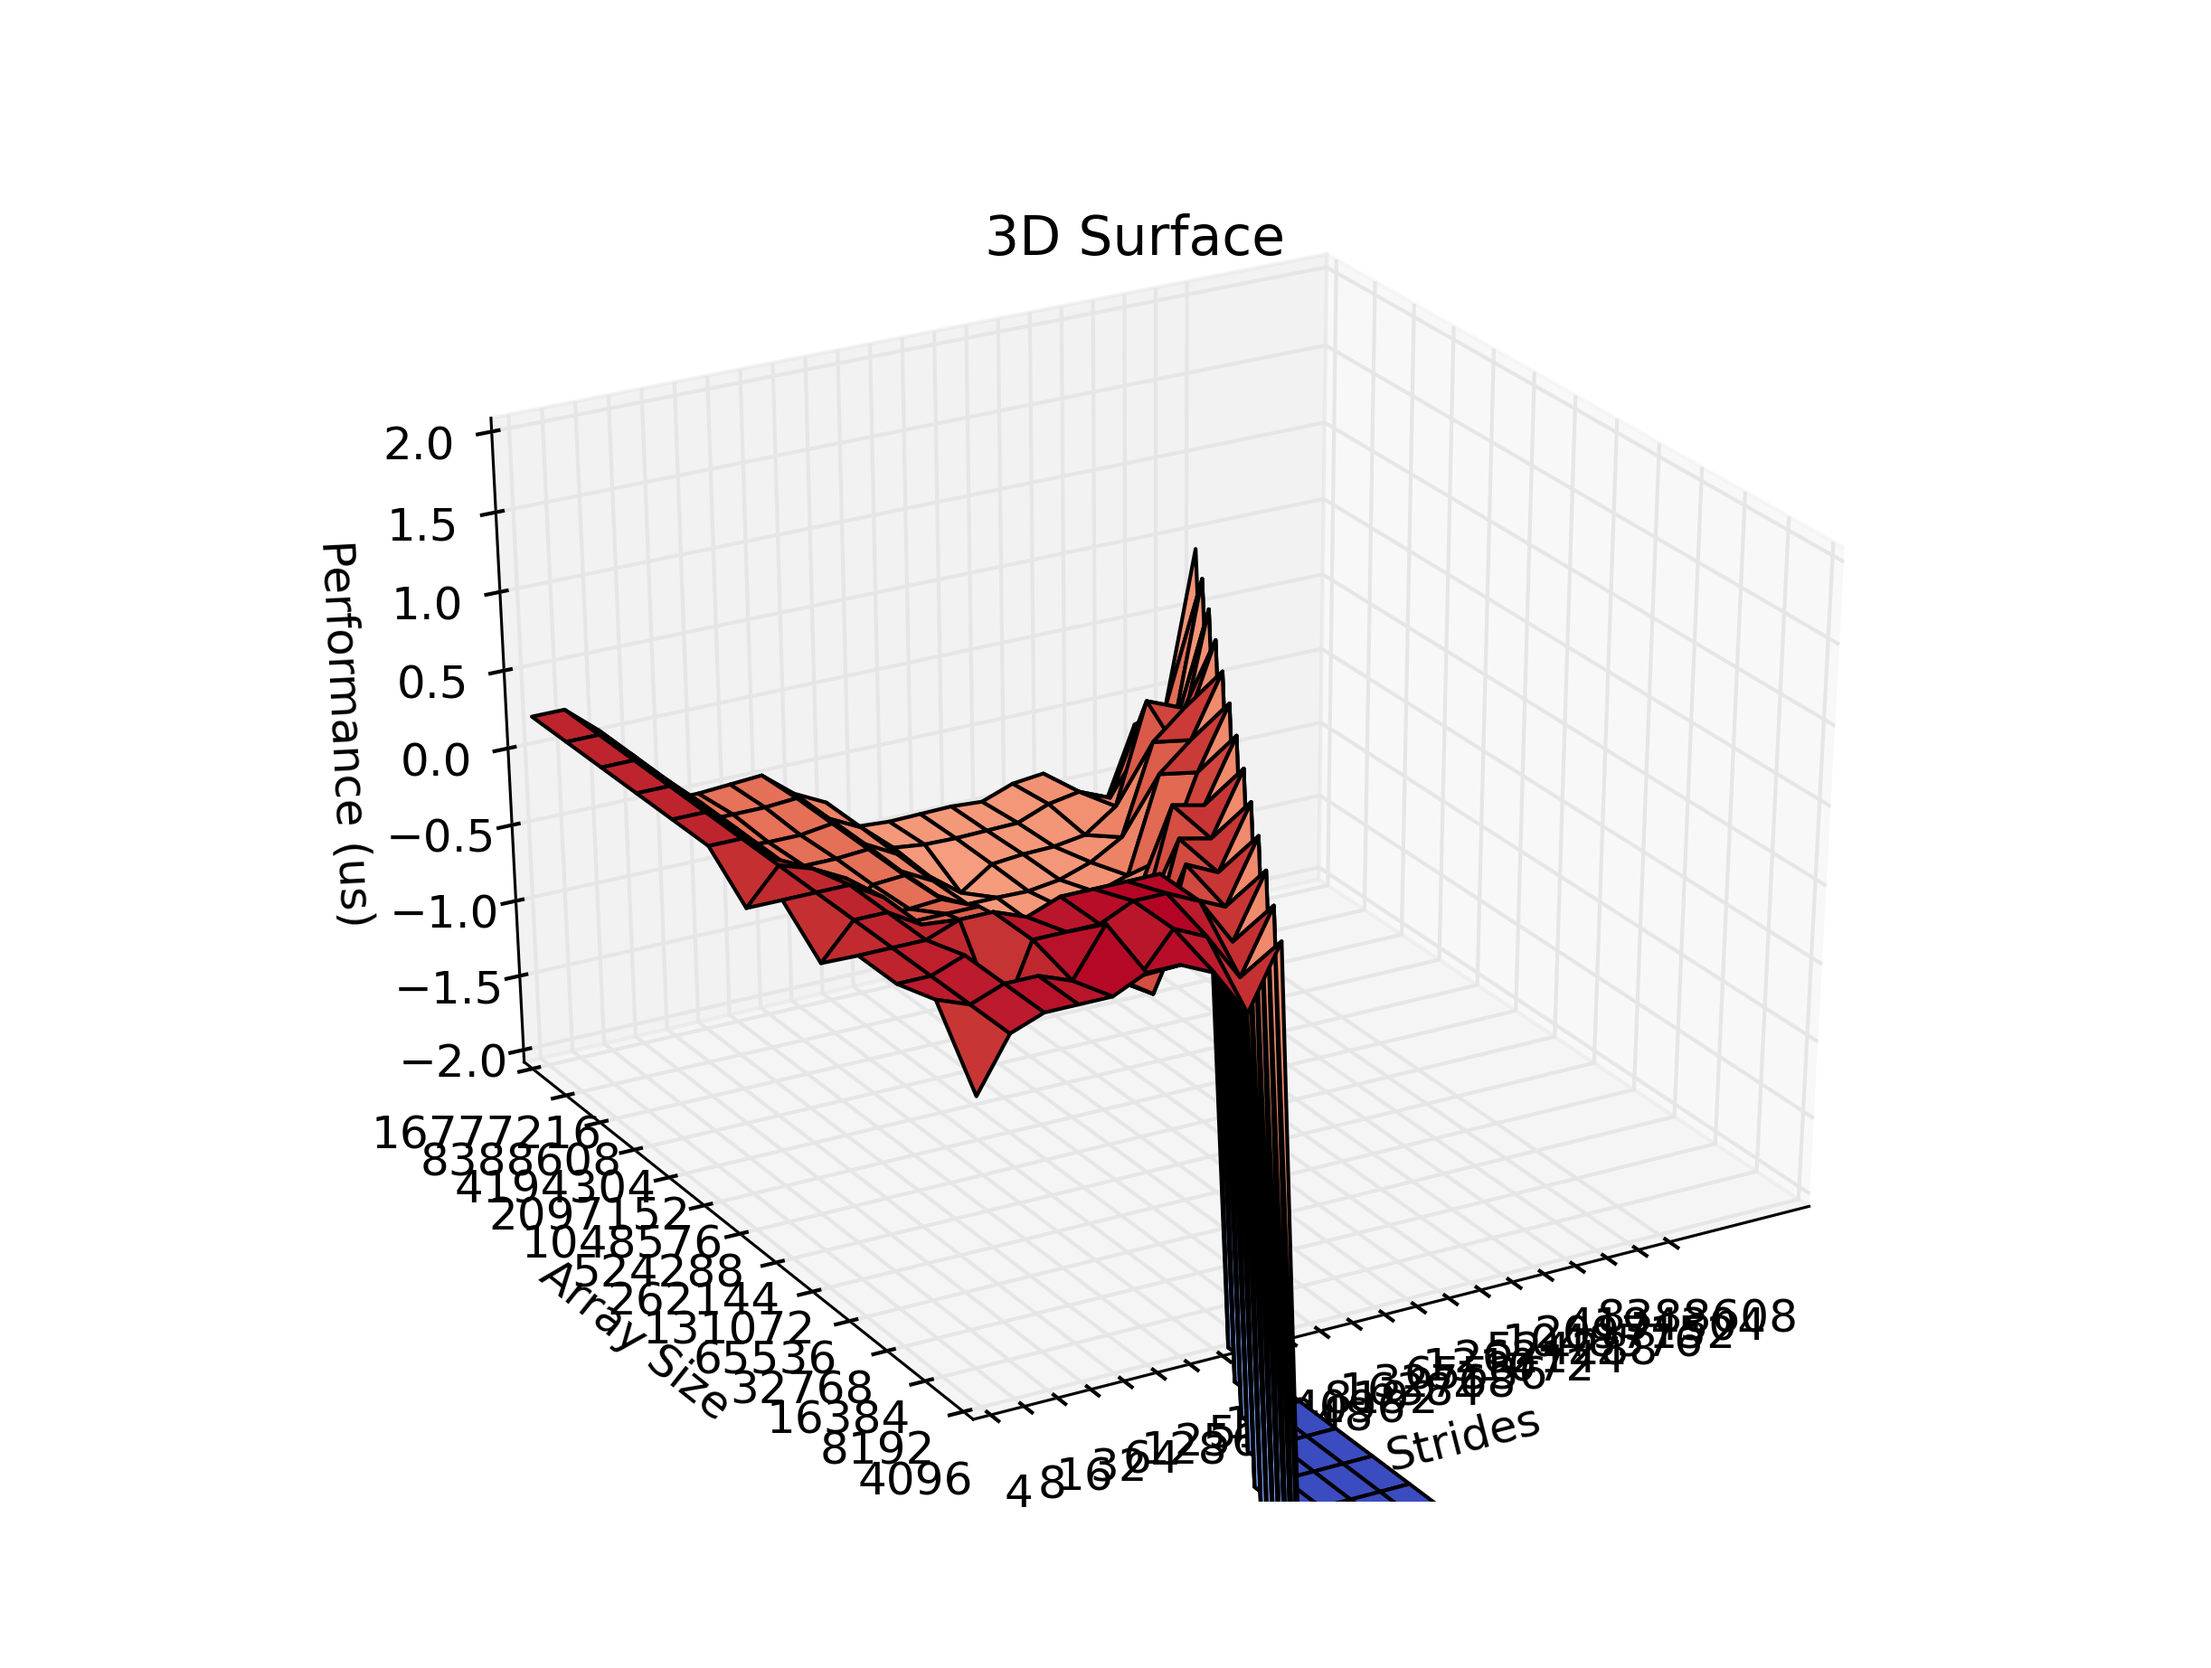
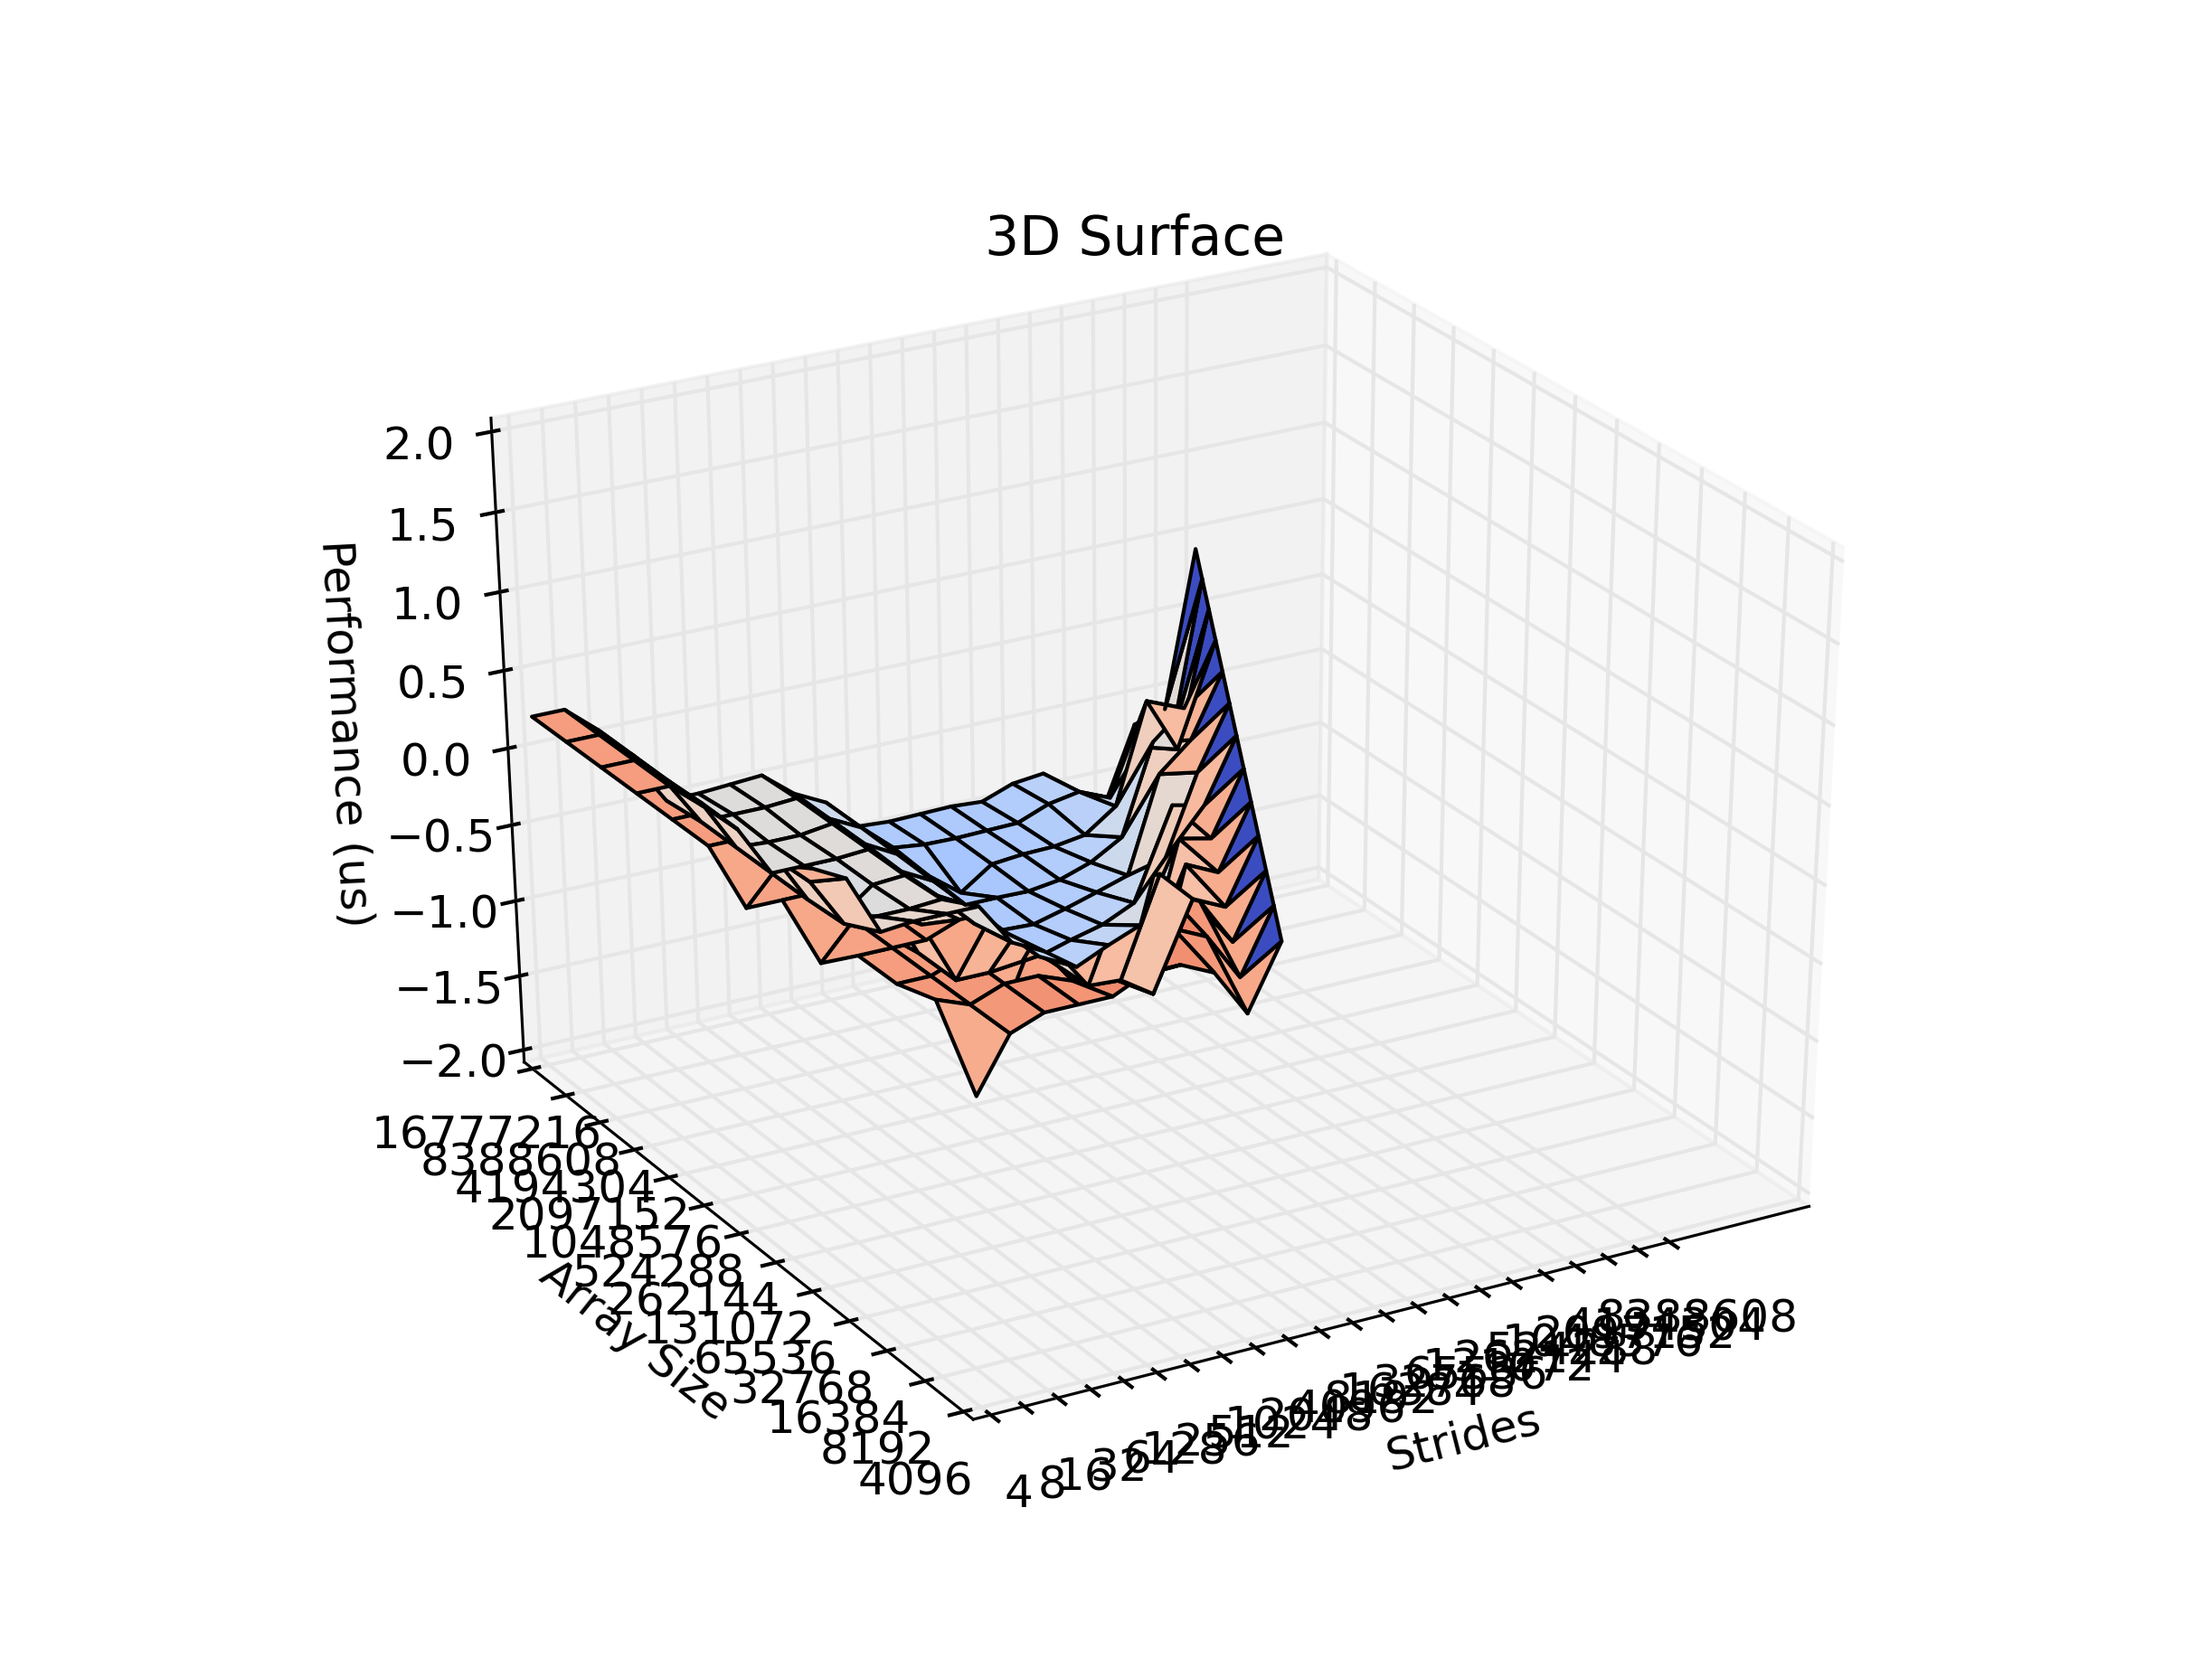
learned how to hide part of the graph by nan

Changed region(s): [[0.2798, 0.3398, 0.6528, 0.9268], [0.2487, 0.4325, 0.2798, 0.4634]]

diff --git a/3d_surface.py b/3d_surface.py
@@ -63,16 +63,32 @@ def plot(ax, params):
         if data[i] == -float('Inf') or data[i] == float('Inf'):
             data[i] = -5
     Z = data.reshape(X.shape)
+    Z[Y<=X-9.] = np.nan
     # Z = data
-    ax.plot_surface(X, Y, Z, cmap=cm.coolwarm, rstride=1, cstride=1, linewidth=1)
+    ax.plot_surface(X, Y, Z, cmap=cm.coolwarm, rstride=1, cstride=1, linewidth=1, vmin=-2, vmax=1)
     ax.set_zlim(-2.0, 2.0)
     ax.set_title(params["title"])
     ax.set_xlabel(params["xlabel"])
     ax.set_xticks(x)
-    ax.set_xticklabels(params["xticks"], ha="center")
+    x_ticks = []
+    y_ticks = []
+    cnt = 0
+    for a_tick in params["xticks"]:
+        if cnt % 3 == 0:
+            x_ticks.append(a_tick)
+        else:
+            x_ticks.append(" ")
+        cnt += 1
+    cnt = 0
+    for a_tick in params["yticks"]:
+        if cnt % 3 == 0:
+            y_ticks.append(a_tick)
+        else:
+            y_ticks.append(" ")
+    ax.set_xticklabels(x_ticks, ha="center")
     ax.set_ylabel(params["ylabel"])
     ax.set_yticks(y)
-    ax.set_yticklabels(params["yticks"], ha="center")
+    ax.set_yticklabels(y_ticks, ha="center")
     ax.set_zlabel(params["zlabel"])
     return
 
